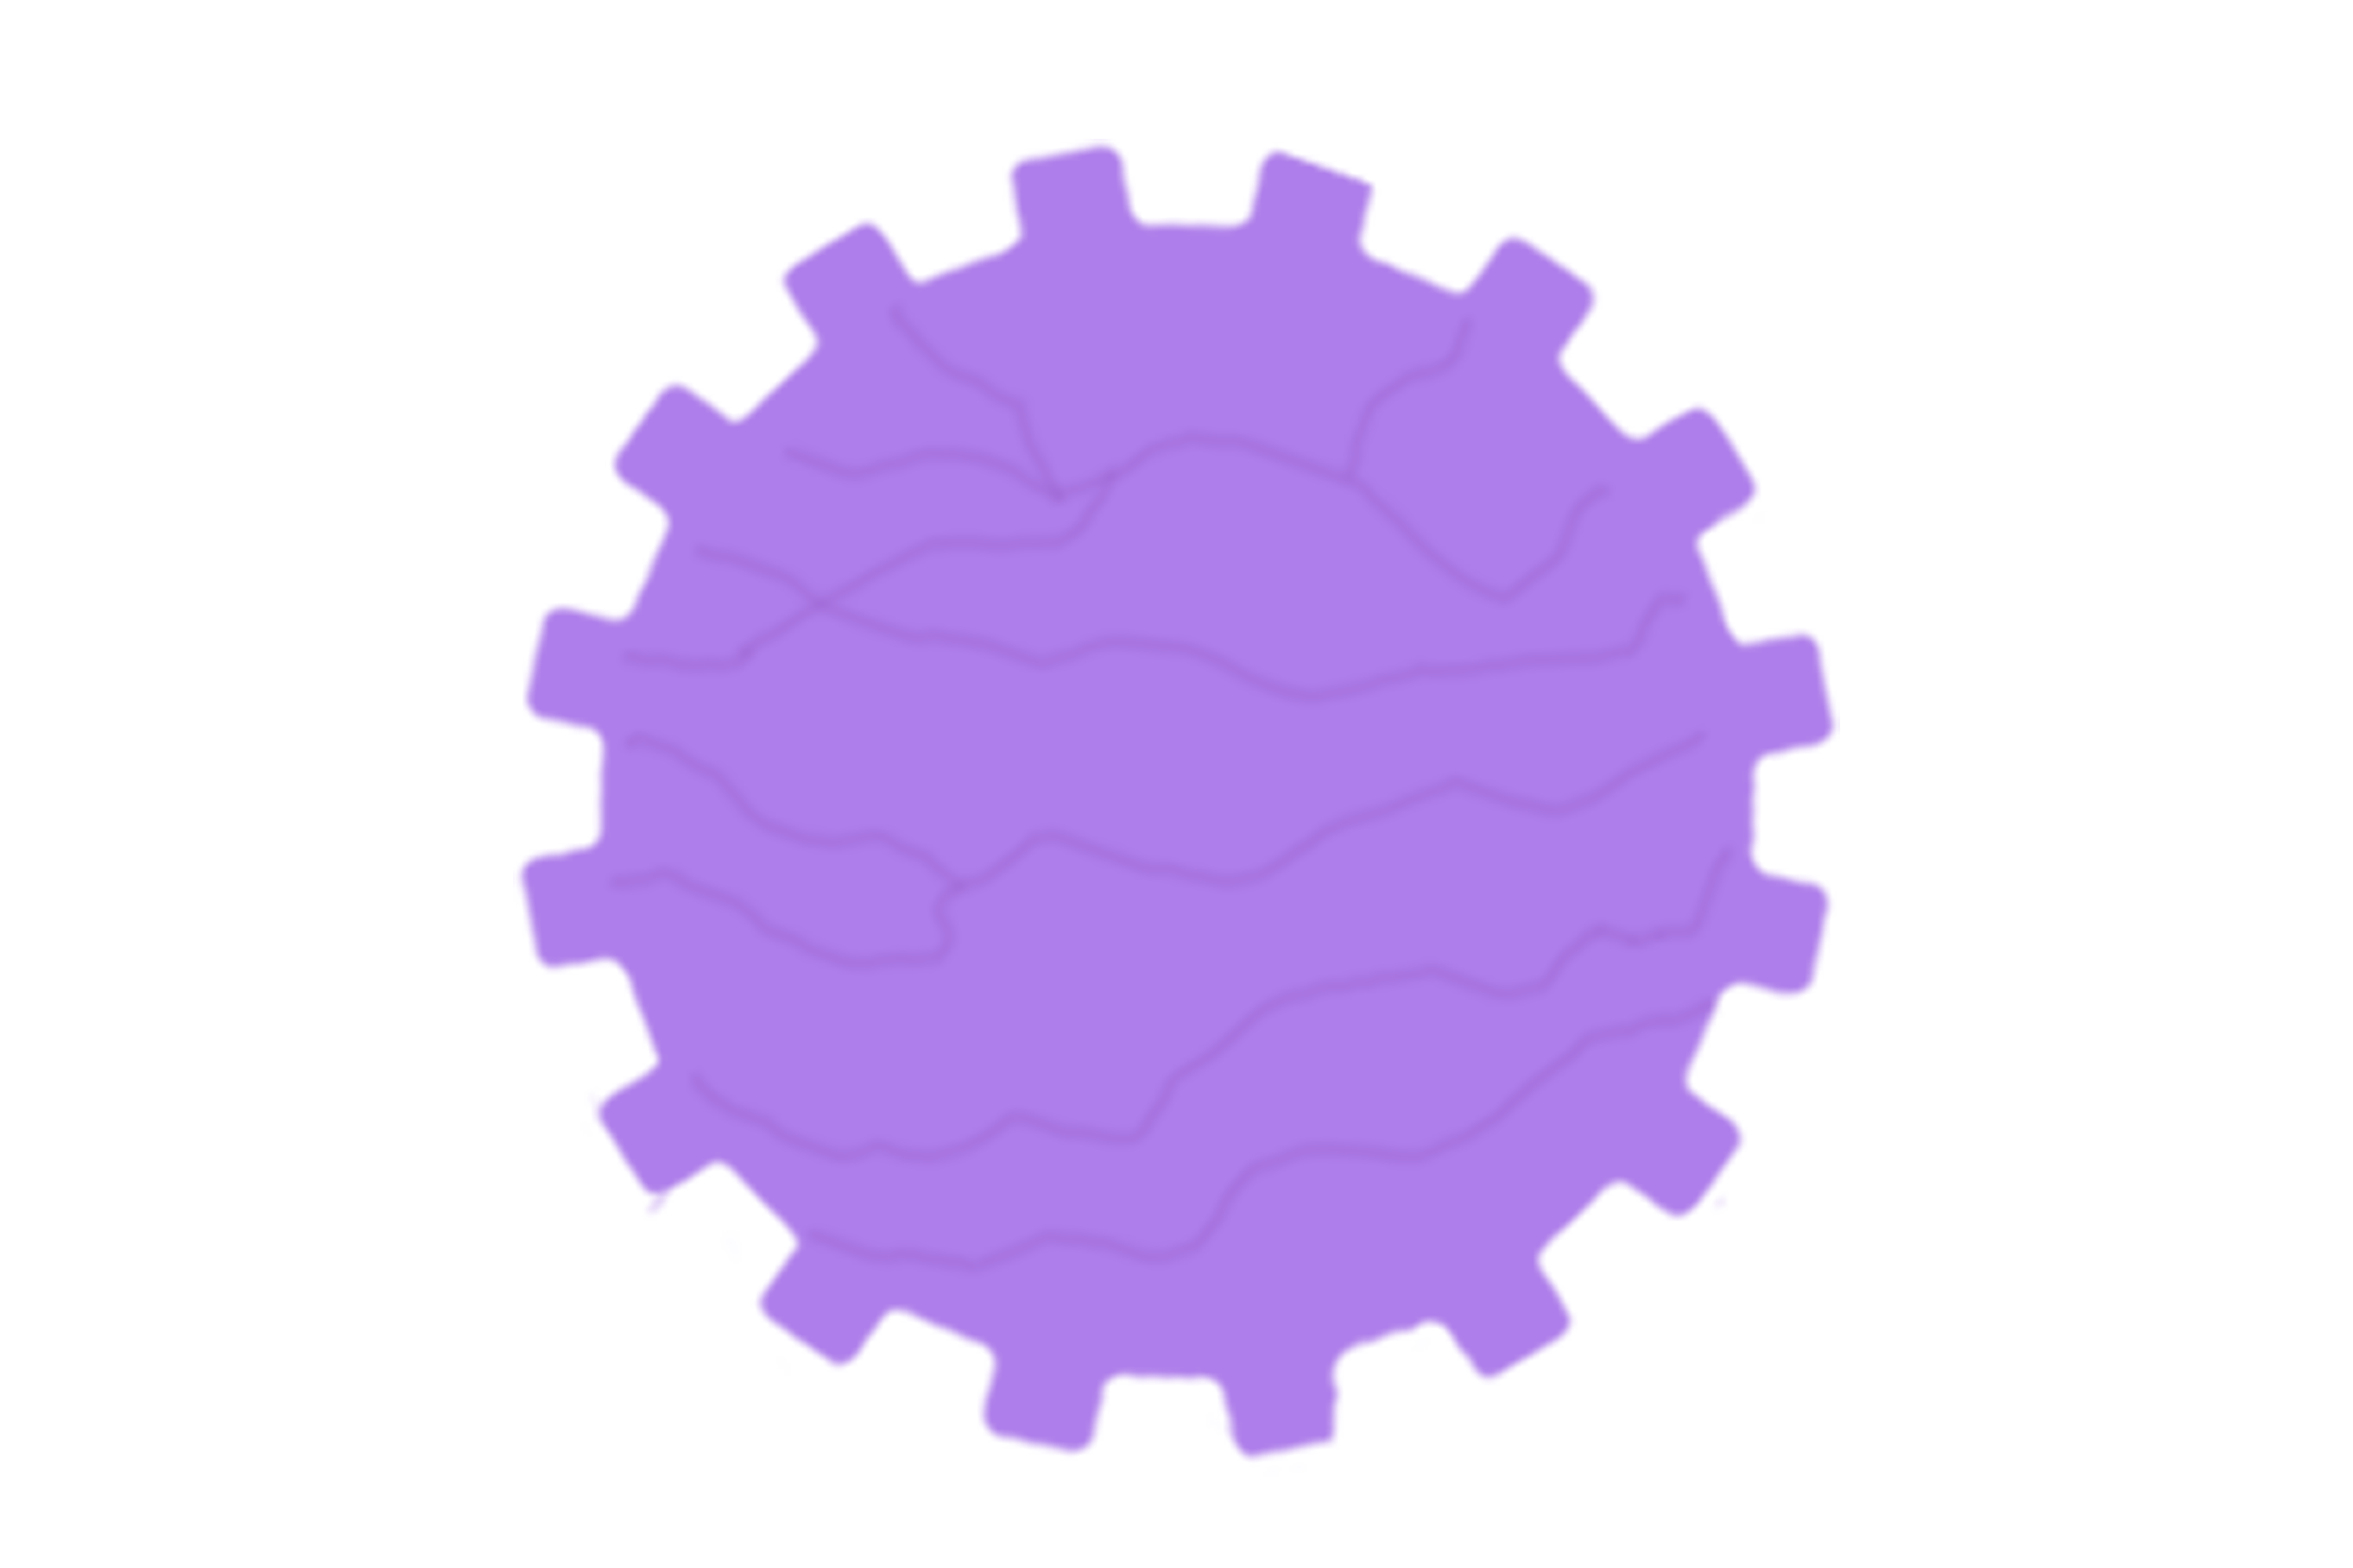
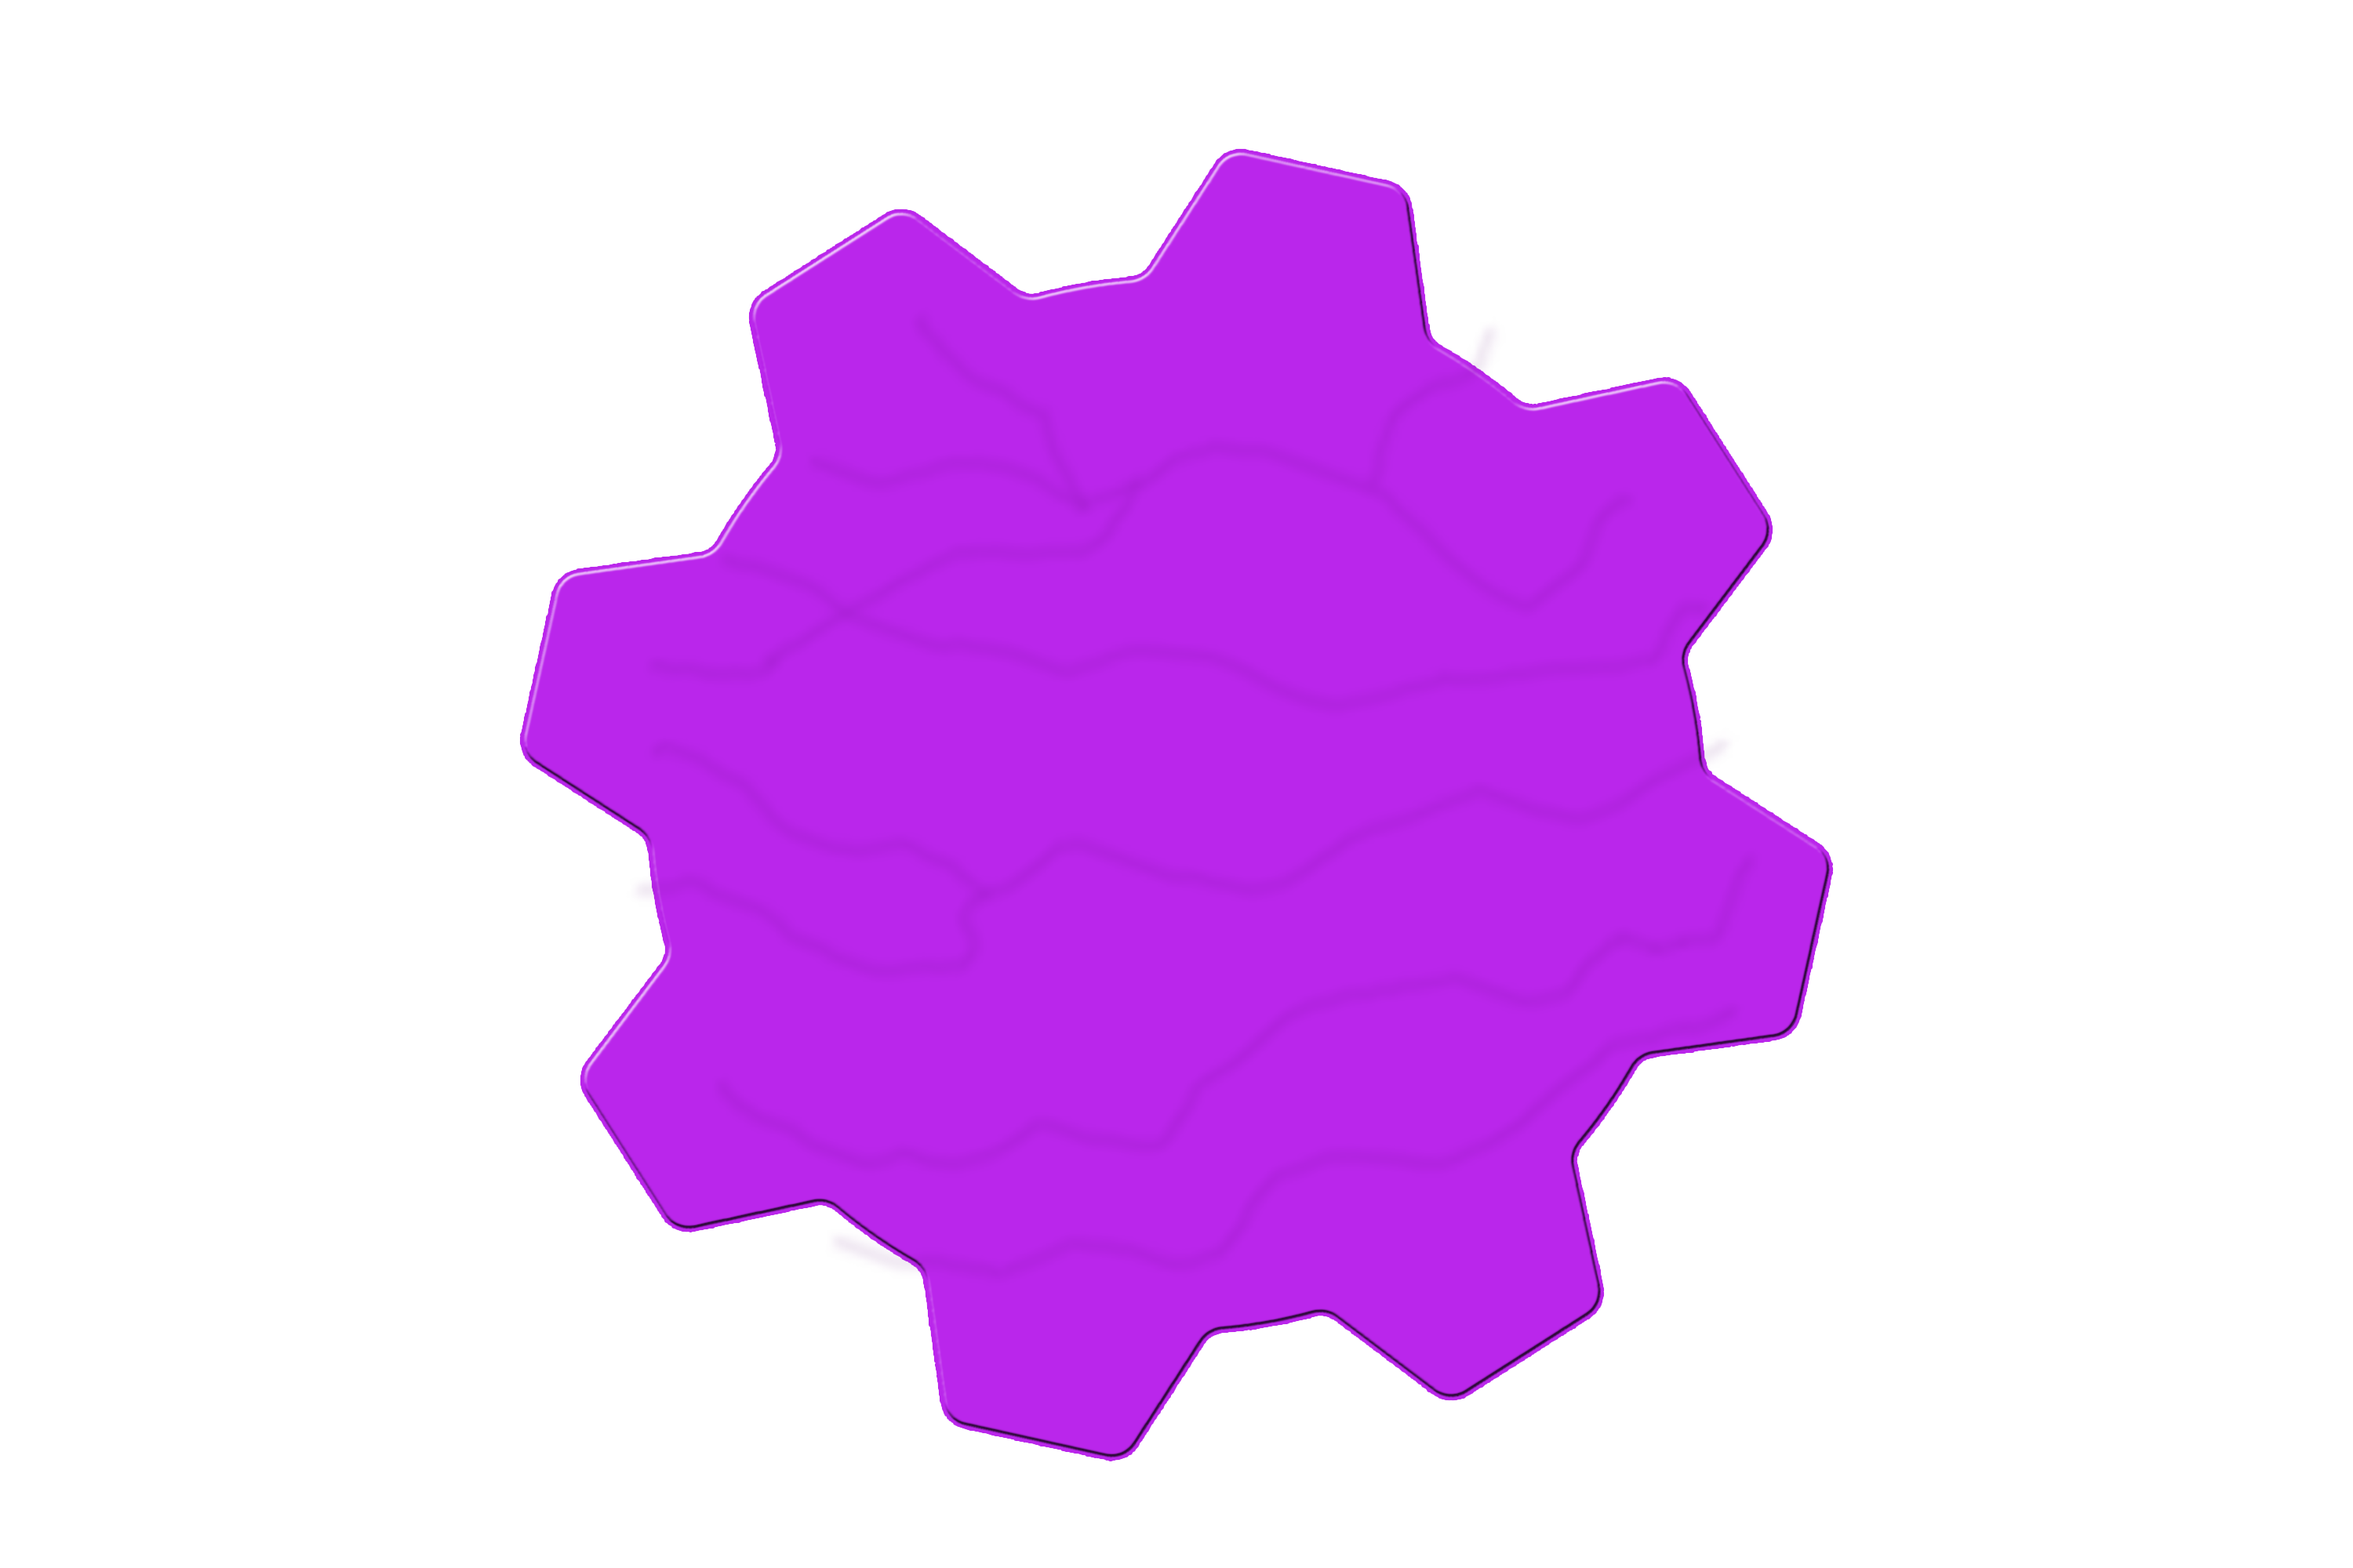
Add new background for the login page

diff --git a/olive_app/templates/users/login.html b/olive_app/templates/users/login.html
@@ -15,54 +15,127 @@
   .card{
     background-color: #ffffff00!important;
   }
+  input.form-control {
+    display: block;
+    width: 100%;
+    padding: .375rem .75rem;
+    font-size: 1rem;
+    line-height: 1.5;
+    color: #495057;
+    background-color: #fff!important;
+    background-clip: padding-box;
+    border: 0px!important;
+    border-radius: .5rem;
+    transition: border-color .15s ease-in-out,box-shadow .15s ease-in-out;
+}
+input[type=text]{
+    background-color: #ffffff!important;
+}
+/* #myelement {
+  position: relative;
+  overflow: hidden;
+  transform: rotate(30deg);
+}
+
+#myelement::before {
+  content: "";
+  position: absolute;
+  width: 200%;
+  height: 200%;
+  top: -50%;
+  left: -50%;
+  z-index: -1;
+    transform: rotate(-30deg);
+
+  /*background: url({% static 'images/purple.png' %}) 0 0 no-repeat;*/
+  /*style="background-image:url({% static 'images/purple.png' %}); background-position:center center; background-size:cover"
+  }*/
+
+#ele{
+  background-image:url({% static 'images/redesign-BACKGROUND.png' %}); 
+  background-position:center center; 
+  background-size:cover;
+  /*-webkit-animation: rotation 2s infinite linear;*/
+
+}
+
+@-webkit-keyframes rotation {
+  from {
+      -webkit-transform: rotate(0deg);
+  }
+  to {
+      -webkit-transform: rotate(359deg);
+  }
+}
+
+.centered {
+  position: absolute;
+  top: 50%;
+  left: 50%;
+  transform: translate(-50%, -50%);
+}
+body{
+  background-image:url({% static 'images/3cogs.png' %});
+  background-size: 100px 100px;
+}
+/*@media only screen and (max-width: 600px) {
+  body{
+    background-image:url({% static 'images/new-web.jpeg' %});
+    background-size: cover;
+  }
+
+  #ele{
+    background-image:url({% static 'images/redesign-BACKGROUND.png' %}); 
+    background-position:center center; 
+    background-size:cover;
+  }
+}*/
 </style>
 
-  <div class="container" style="background-image:url({% static 'images/purple-1.png' %}); background-position:center center; background-size:cover">
+  <div class="container centered">
 
     <!-- Outer Row -->
-    <div class="row justify-content-center">
-
-      <div class="col-xl-6 col-lg-6 col-md-6">
-        {{request.url}}
-        <div class="card o-hidden border-0 shadow-lg my-5">
-          <div class="card-body p-0 ">
-            <!-- Nested Row within Card Body -->
-            <div class="row">
-              <div class="col-lg-12">
-                <div class="p-5">
-                  <div class="text-center">
-                    {% if config.site_logo %}<a href="/"><img src="{{config.site_logo.url}}" alt="{{config.site_name}}" title="{{config.site_name}}" width="30%"></a>{% endif %}
-                    <h1 class="h4 text-white mb-4">Login</h1>
-                  </div>
-                  <form id="mainForm" class="user" role="form" method="post">
-                    {% csrf_token %}                        
-                      {% bootstrap_form form %}
-                    {% buttons %}
-                    <div class="form-group">
-                      <div class="custom-control custom-checkbox small">
-                        <input type="checkbox" class="custom-control-input" id="customCheck">
-                        <label class="custom-control-label" for="customCheck">Remember Me</label>
-                      </div>
+    <div class="row justify-content-center" id="ele">
+      <!-- <img src="{% static 'images/redesign-BACKGROUND.png' %}" alt="" style="width:100%;"> -->
+        <div class="actions col-lg-6 col-md-6">
+          <div class="card o-hidden border-0 shadow-lg my-5">
+            <div class="card-body p-0 ">
+              <!-- Nested Row within Card Body -->
+              <!-- <div class="row" > -->
+                <div class="col-lg-12">
+                  <div class="p-5">
+                    <div class="text-center">
+                      <!-- {% if config.site_logo %}<a href="/"><img src="{{config.site_logo.url}}" alt="{{config.site_name}}" title="{{config.site_name}}" width="30%"></a>{% endif %} -->
+                      <h1 class="h4 text-white mb-4">Welcome</h1>
                     </div>
-                    <button id="submit" class="btn btn-primary btn-user btn-block" type="submit">Login</button>
-                    <hr>
-                    {% comment %}
-                    <!-- <a href="{% url 'social:begin' 'facebook' %}" class="btn btn-facebook btn-user btn-block">
-                      <i class="fab fa-facebook-f fa-fw"></i> Login with Facebook
-                    </a> -->
-                    {% endcomment %}
-                    <script type="text/javascript">
-                        $(function(){
-                            $(".alert-message").alert();
-                            $('#mainForm').submit(function(){
-                                $('#submit').button('loading');
-                            })
-                        });
-                        document.forms[1].elements[2].focus();
-                    </script>
-                    {% endbuttons %}
-                  </form>
-                  <hr>
+                    <form id="mainForm" class="user" role="form" method="post">
+                      {% csrf_token %}                        
+                        {% bootstrap_form form %}
+                      {% buttons %}
+                      <div class="form-group">
+                        <div class="custom-control custom-checkbox small">
+                          <input type="checkbox" class="custom-control-input" id="customCheck">
+                          <label class="custom-control-label" for="customCheck">Remember Me</label>
+                        </div>
+                      </div>
+                      <button id="submit" class="btn btn-primary btn-user btn-block" type="submit">Let's Begin</button>
+                      <hr>
+                      {% comment %}
+                      <!-- <a href="{% url 'social:begin' 'facebook' %}" class="btn btn-facebook btn-user btn-block">
+                        <i class="fab fa-facebook-f fa-fw"></i> Login with Facebook
+                      </a> -->
+                      {% endcomment %}
+                      <script type="text/javascript">
+                          $(function(){
+                              $(".alert-message").alert();
+                              $('#mainForm').submit(function(){
+                                  $('#submit').button('loading');
+                              })
+                          });
+                          document.forms[1].elements[2].focus();
+                      </script>
+                      {% endbuttons %}
+                    </form>
                     <div class="text-center text-white">
                       <a class="small text-white" href="{% url 'users:password_reset' %}">Reset Password</a>
                     </div>
@@ -74,14 +147,12 @@
                       <p class="m-0 text-center text-dark">Copyright © 2019</p>
                     </div>
 
+                  </div>
                 </div>
-              </div>
+              <!-- </div> -->
             </div>
           </div>
         </div>
-
-      </div>
-
     </div>
 
   </div>

diff --git a/olive_app/templates/users/base_accounts.html b/olive_app/templates/users/base_accounts.html
@@ -21,7 +21,7 @@
     {% block head_block %} {% endblock %}
     {% include "users/css.html" %}
   </head>
-  <body style="background-image:url({% static 'images/new-web.jpeg' %}); background-size:cover;">
+  <body>
     {% comment %} {% include "users/user_menu.html" %}{% endcomment %}
     {% block content %}
 
@@ -30,11 +30,7 @@
       <p class="browsehappy">You are using an <strong>outdated</strong> browser. Please <a href="#">upgrade your browser</a> to improve your experience.</p>
     <![endif]-->
     {% block footer %}
-    <!-- <footer class="py-5 bg-light" id="footer">
-      <div class="container">
-        <p class="m-0 text-center text-dark">Copyright © 2019</p>
-      </div>
-    </footer> -->
+
     {% endblock footer %}
 
     {% block extrafooter %}

diff --git a/coreconfig/tasks.py b/coreconfig/tasks.py
@@ -5,7 +5,7 @@ from django.core import mail
 from django.core.mail.backends.smtp import EmailBackend
 from coreconfig import models
 
-@shared_task
+# @shared_task
 def sending_mail(subject, message, contact_list):
 
     try:
